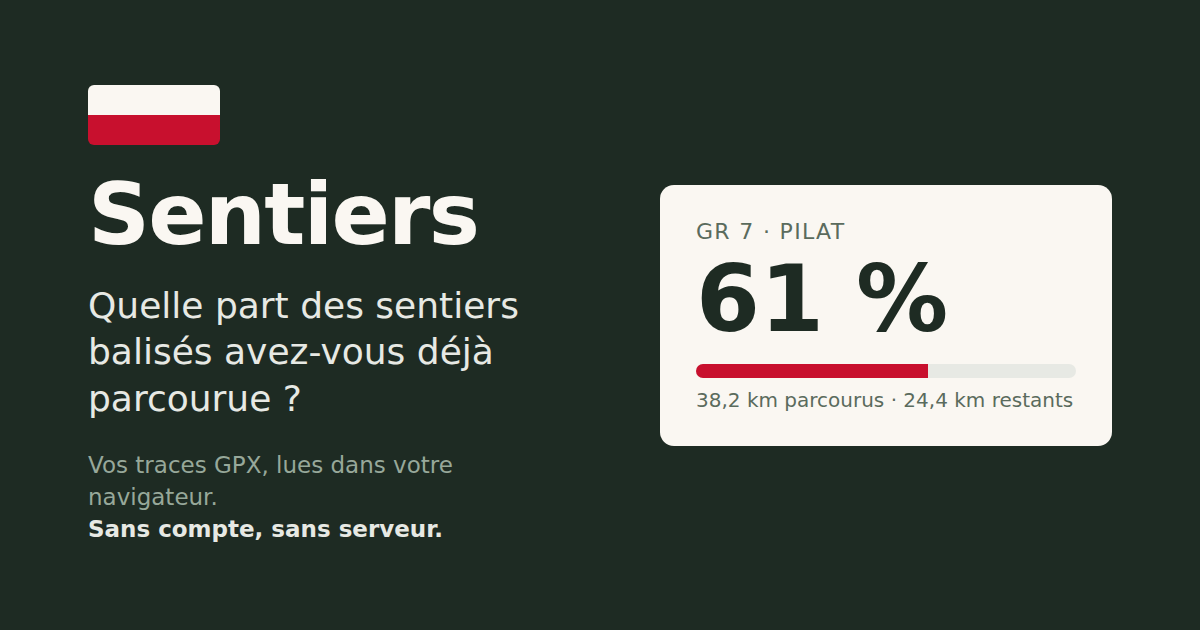
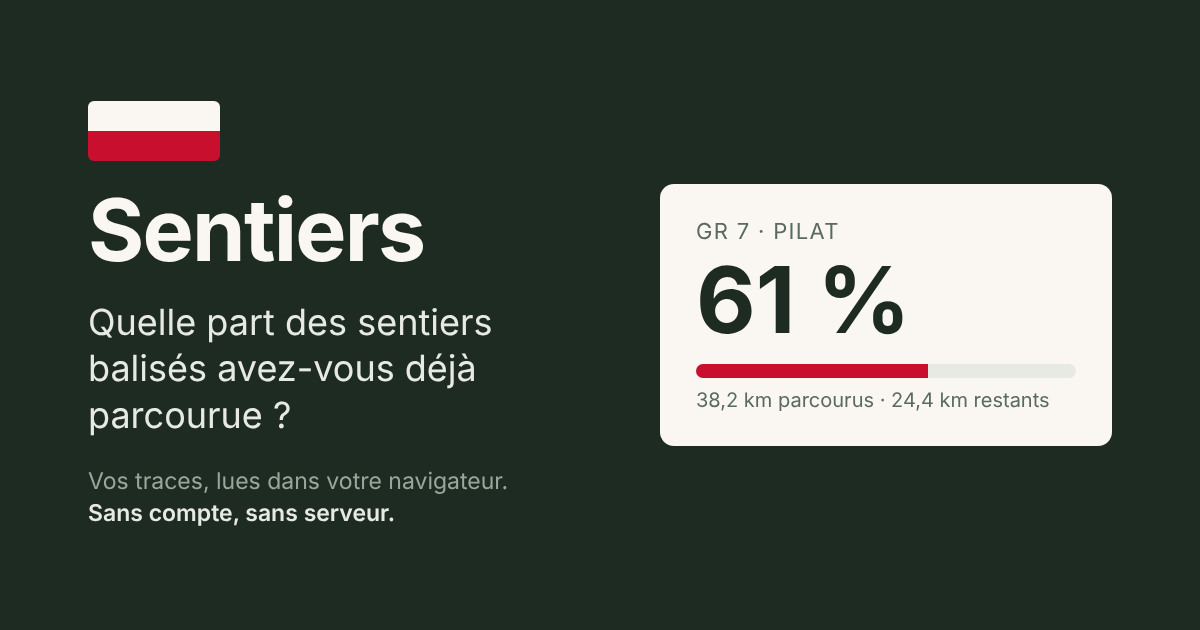
Textes : manifeste, image de partage et « À propos » suivent (#608)
Trois oublis relevés par la relecture adverse :

- la description du manifeste disait encore « vos traces GPX » ;
- l'image de partage aussi (`scripts/og-image.mjs`) : régénérée par
  `npm run og-image`, et regardée ;
- « À propos » rangeait les traces dans IndexedDB et les cartes dans le
  cache, sans plus nommer les points d'intérêt emportés, qui vont dans
  IndexedDB (`poisEmportes.ts` : le Cache API ne range pas les POST
  d'Overpass).

Refs #608

Claude-Session: https://claude.ai/code/session_0154ZRyRPiim5MLBEbLCNbw3

diff --git a/src/components/About.tsx b/src/components/About.tsx
@@ -54,8 +54,9 @@ export function About({
           <p>
             Vos traces — GPX, FIT, TCX — sont lues et analysées{' '}
             <strong>uniquement dans votre navigateur</strong>, et stockées
-            localement — les traces dans IndexedDB, les cartes emportées dans le
-            cache du navigateur, vos réglages dans le stockage local. Le calcul de complétion se fait chez vous,
+            localement — les traces et les points d’intérêt emportés dans
+            IndexedDB, les cartes emportées dans le cache du navigateur, vos
+            réglages dans le stockage local. Le calcul de complétion se fait chez vous,
             de bout en bout. Aucune trace, aucun identifiant, aucune mesure
             d’audience ne quitte votre appareil. Il n’y a ni compte, ni serveur
             applicatif.
